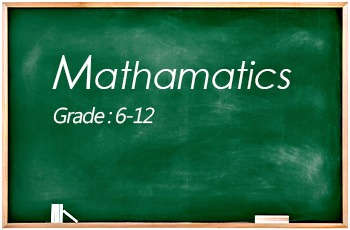
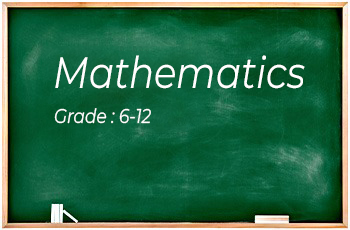
Removed unwanted image files. and small corrections instructed by prinston

Changed region(s): [[0.1429, 0.1826, 0.8857, 0.5783]]

diff --git a/EducationForum/wwwroot/assets/Services/Courses_Service.js b/EducationForum/wwwroot/assets/Services/Courses_Service.js
@@ -55,7 +55,7 @@ function BindCourseDetails() {
                         <div class="course-item wow fade-in-bottom" data-wow-delay="200ms">
                             <div class="course-thumb-wrap">
                                 <div class="course-thumb">
-                                    <img src="/assets/img/Courses/` + prop['imagePath'] + `" alt="` + prop['courseHeading'] + `" loading="lazy">
+                                    <img src="/assets/img/Courses/` + prop['imagePath'] + `?v=1" alt="` + prop['courseHeading'] + `" loading="lazy">
                                 </div>
                             </div>
                             <div class="course-content">

diff --git a/EducationForum/wwwroot/assets/css/main.css b/EducationForum/wwwroot/assets/css/main.css
@@ -5325,11 +5325,12 @@ START: About CSS
 
 .about-img-wrap-3 {
   background-color: var(--ed-color-common-white);
-  max-width: 545px;
+  max-width: 445px;
   width: 100%;
-  height: 508px;
+  height: 408px;
   position: relative;
   border-radius: 15px;
+  justify-self:center
 }
 @media only screen and (max-width: 992px) {
   .about-img-wrap-3 {
@@ -5339,7 +5340,7 @@ START: About CSS
 }
 .about-img-wrap-3 .about-img {
   width: 100%;
-  height: 508px;
+  height: 408px;
   position: absolute;
   top: 0;
   left: 0;
